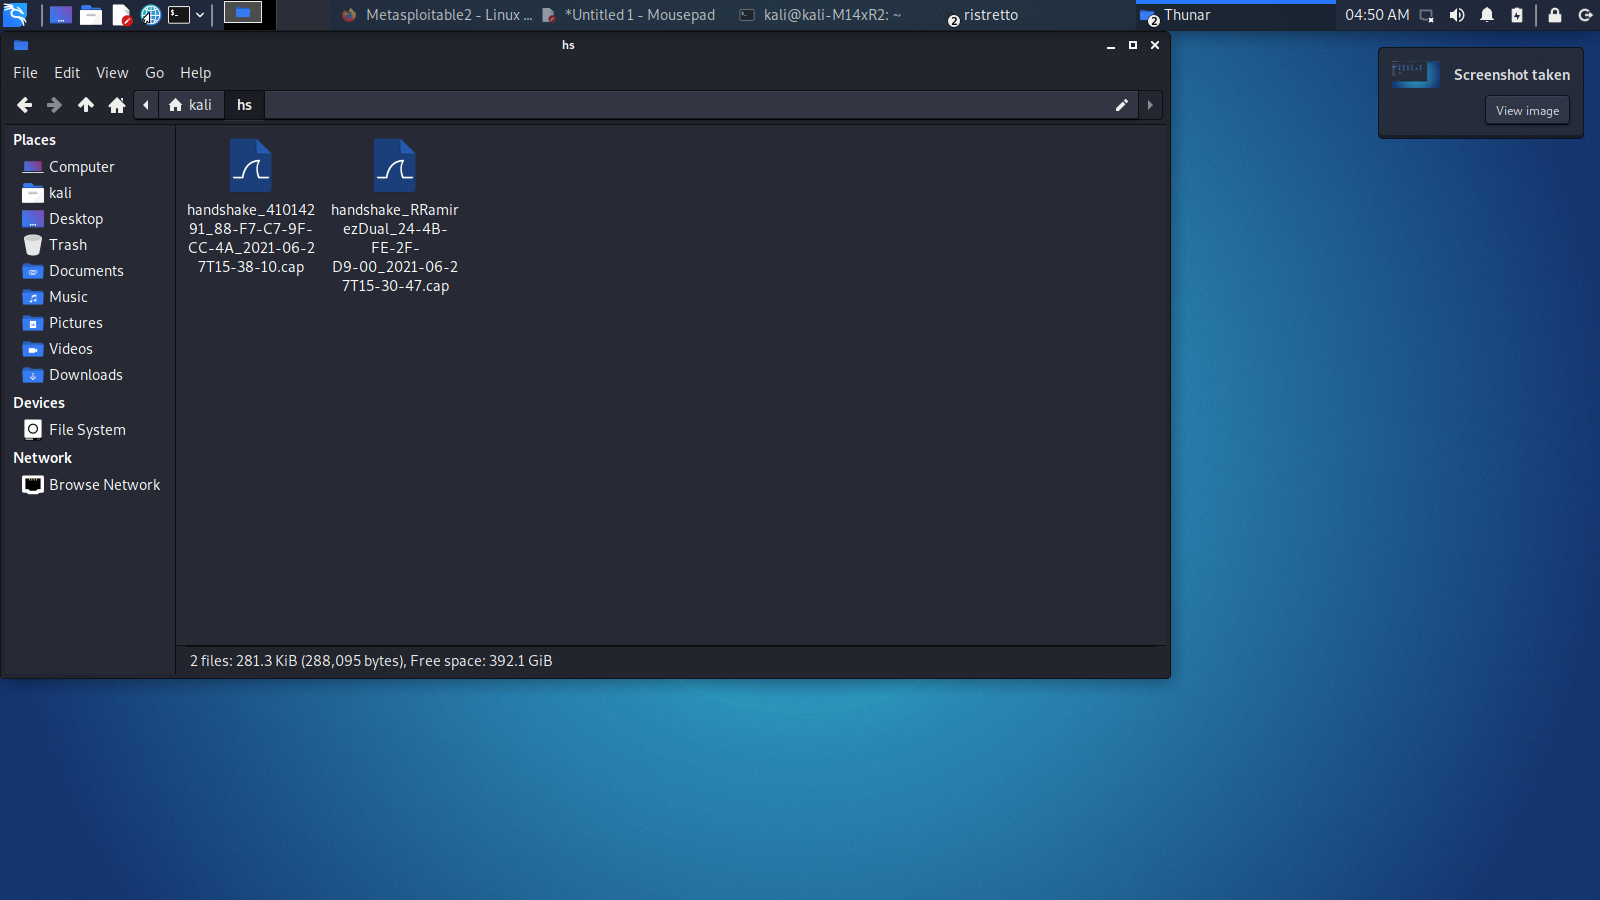
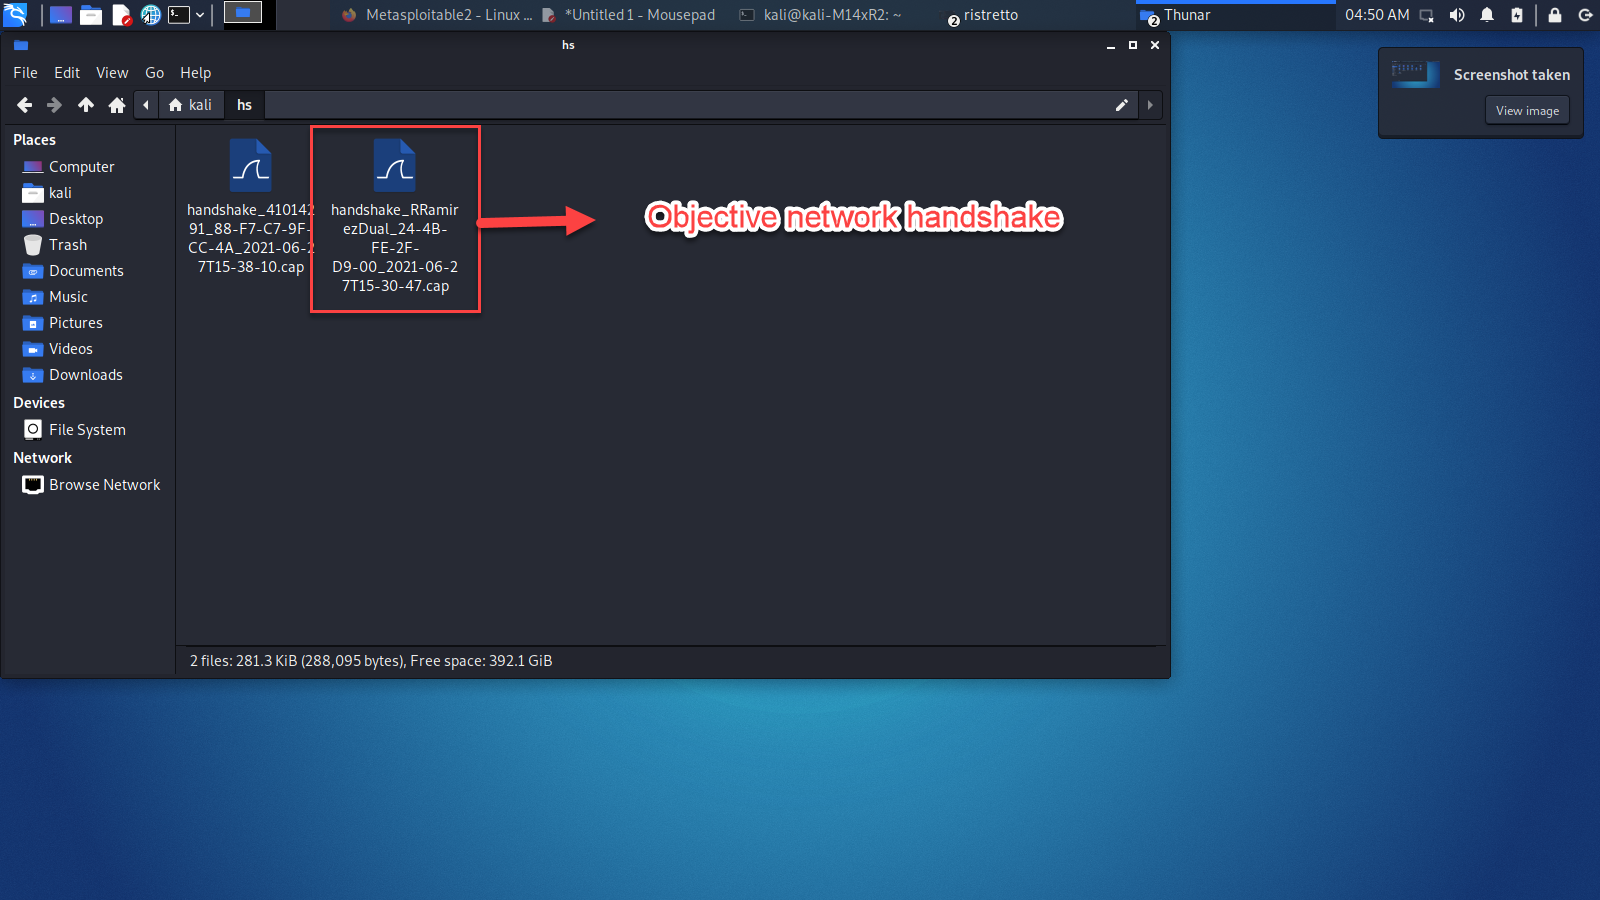
Conclusions future work and wifi cracking

diff --git a/KaliWorkshopProject/Readme.md b/KaliWorkshopProject/Readme.md
@@ -591,8 +591,89 @@ As shown `OpenVAS` appliance is started in `https://localhost:9392`:
 
 ## WiFi Cracking with Wifite and Aircrack-ng.
 
-This section shows how to crack a Wifi password using 
+This section shows how to crack a Wifi password using Wifite and aircrack ng, tools:
+
+- [Wifite](https://tools.kali.org/information-gathering/nikto): To attack multiple WEP, WPA, and WPS encrypted networks in a row. This tool is customizable to be automated with only a few arguments. Wifite aims to be the “set it and forget it” wireless auditing tool.
+- [Burp suite](https://tools.kali.org/wireless-attacks/aircrack-ng): Aircrack-ng is an 802.11 WEP and WPA-PSK keys cracking program that can recover keys once enough data packets have been captured. It implements the standard FMS attack along with some optimizations like KoreK attacks, as well as the all-new PTW attack, thus making the attack much faster compared to other WEP cracking tools.
+
+### Wifite Handshake extraction.
+
+Wifite uses the technique of trying to use WEP to stablish a connection and intentionally "forget it", in order to generate all pcap handshake which will be used by tools such as aircrack-ng to try to break the WPA Password using a dictionary or brute force.
+
+* Wifite needs that the Wireless interface in this case `wlan0` is in monitor mode. This is achieved using:
+```
+# Put network in monitor mode
+sudo airmon-ng start wlan0
+```
+<kbd>![OpenVAS Startup](evidences/4.1_PutWLANInterfaceInMonitorMode.png)</kbd>
+<br />
+<br />
+
+* Then Wifite needs to scan the networks ordering them descending in `db`, which is the measuring unit to express the signal strength:
+```
+# Scans
+sudo wifite -mac
+```
+<kbd>![OpenVAS Startup](evidences/4.2_Scanning_Wifite_Networks.png)</kbd>
+<br />
+<br />
+
+The `mac` parameter will change temporarily the MAC of the network card in order to prevent detections and furthers blocks.
+
+
+* Wifite will take a while to generate the handshake file. Then will complete the generating the handshake directory as shown:
+
+<kbd>![OpenVAS Startup](evidences/4.2.1_Wifite_HandShake.png)</kbd>
+<br />
+<br />
+<kbd>![OpenVAS Startup](evidences/4.3_Handshake_Directory_1.png)</kbd>
+<br />
+<br />
+<kbd>![OpenVAS Startup](evidences/4.4_Handshake_Directory_2.png)</kbd>
+<br />
+<br />
+
+The handshake file `handshake_RRamirezDual_24-4B-FE-2F-D9-00_2021-06-27T15-30-47.cap` will be used by aircrack-ng, to try to crack the WPA Password.
+<br />
+
+### Aircrack-ng WPA Password Cracking.
+Aircrack-ng used to be part of `wifite` in previous releases of the kali linux distribution. However, it has become into a separate command which allows flexibility to crack different passwords with scans made by `wifite` previously.
+
+* Brute force approach can take several days or even weeks to complete the password cracking. It's better performant to define a dictionary of passphrases that can be used by aircrack-ng to break the password. This dictionary can be generated with keywords that belong to the network: fullname, birthdays, city, etc. The dictionary technique is very effective using social engineering information gathering. 
+
+In this workshop the default dictionary was used adding the already known password of the network:
+
+
+<kbd>![OpenVAS Startup](evidences/4.7_Dictionary_Information.png)</kbd>
+<br />
+<br />
+
+* Then the attack is launched using the dictionary `/usr/share/dict/wordlist-probable.txt` and the handshake generated by wifite: `handshake_RRamirezDual_24-4B-FE-2F-D9-00_2021-06-27T15-30-47.cap`
+```
+#Check hs
+cd hs
+sudo aircrack-ng handshake_RRamirezDual_24-4B-FE-2F-D9-00_2021-06-27T15-30-47.cap -w /usr/share/dict/wordlist-probable.txt
+```
+<kbd>![OpenVAS Startup](evidences/4.5_Aircrack-ng_startup.png)</kbd>
+<br />
+<br />
+<kbd>![OpenVAS Startup](evidences/4.6_Aircrack_password_found.png)</kbd>
+<br />
+<br />
+
+
+## Conclusions and future work.
+
+* Kali linux is an excellent tool to establish workshops or laboratories of ethical hacking, however, it's better to use their tool set carefully in an approved controlled environment. Unauthorized usage can be againts the regional laws and lead to jail or high monetary fines.
+*  There is still a great variety of tools that Kali linux can provide, this lab only focused on recognizment and wifi cracking. There is still room to use exploit tools to take advance of the information gathered by Kali.
+
+## References.
+* Kali tools: https://tools.kali.org/
+* Metasploitable and offensive security: https://www.offensive-security.com/metasploit-unleashed/requirements/ 
+* Learning Kali Course by Malcolm Shore: https://www.linkedin.com/learning/learning-kali-linux-2/installing-additional-applications-into-kali?u=57692769
+* Ethical Hcking: Wireless networks by Malcolm Shore: https://www.linkedin.com/learning/ethical-hacking-wireless-networks/using-wifite-and-aircrack-ng-to-test-wpa-passwords-2?u=57692769
+* Greenbone vulnerability management: https://www.greenbone.net/en/vulnerability-management/
+* 
 
 
 
-4.1_PutWLANInterfaceInMonitorMode.png
